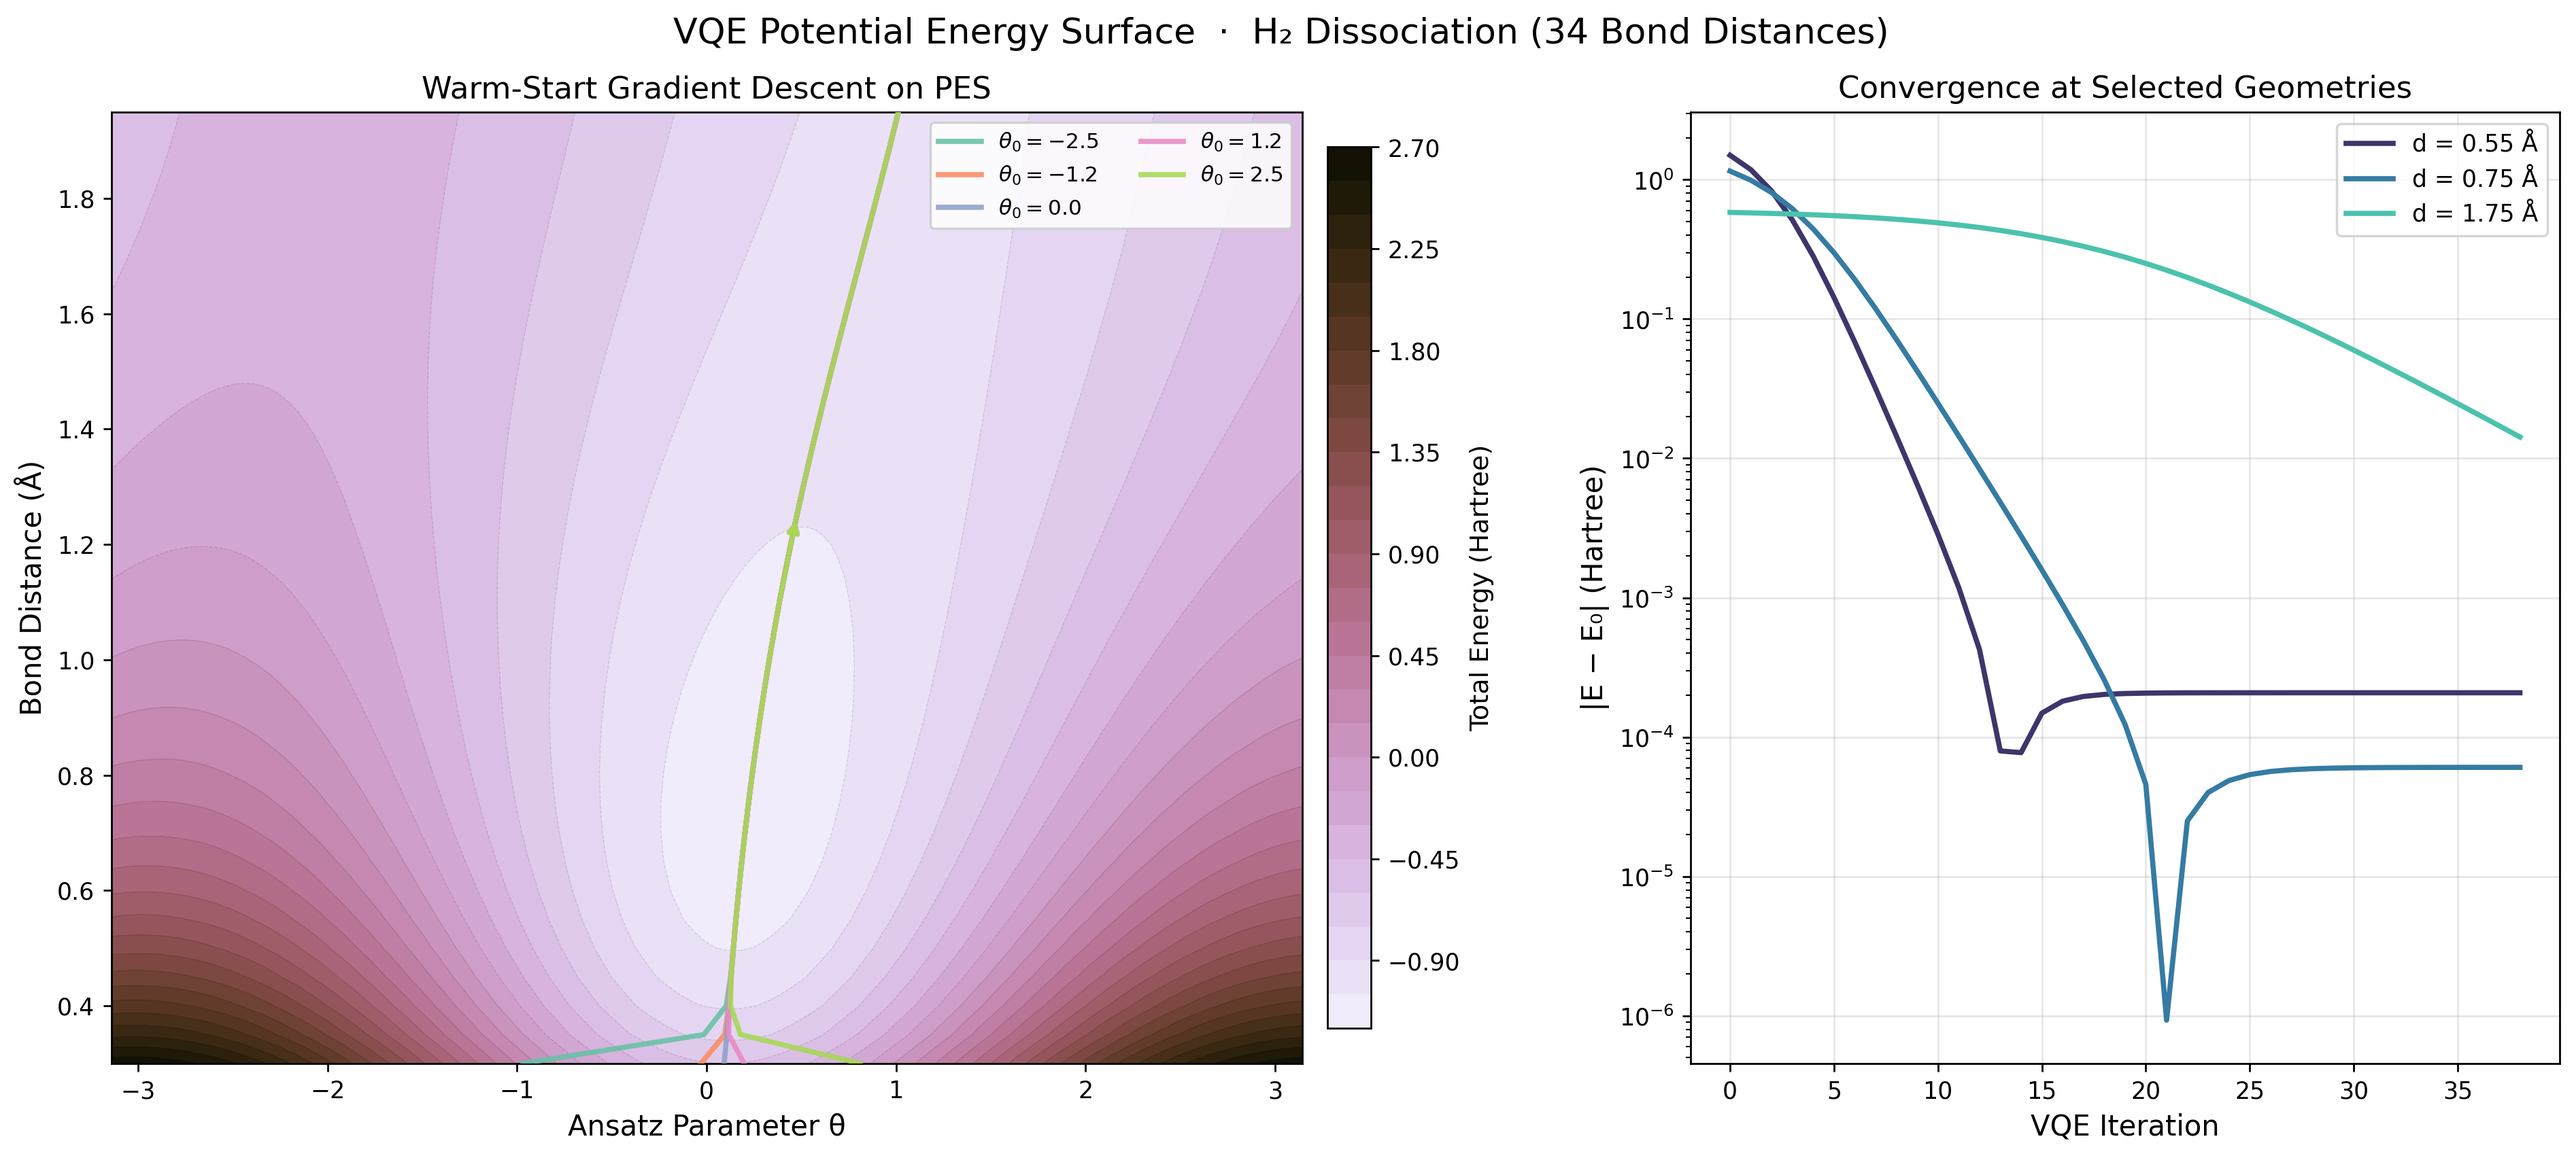
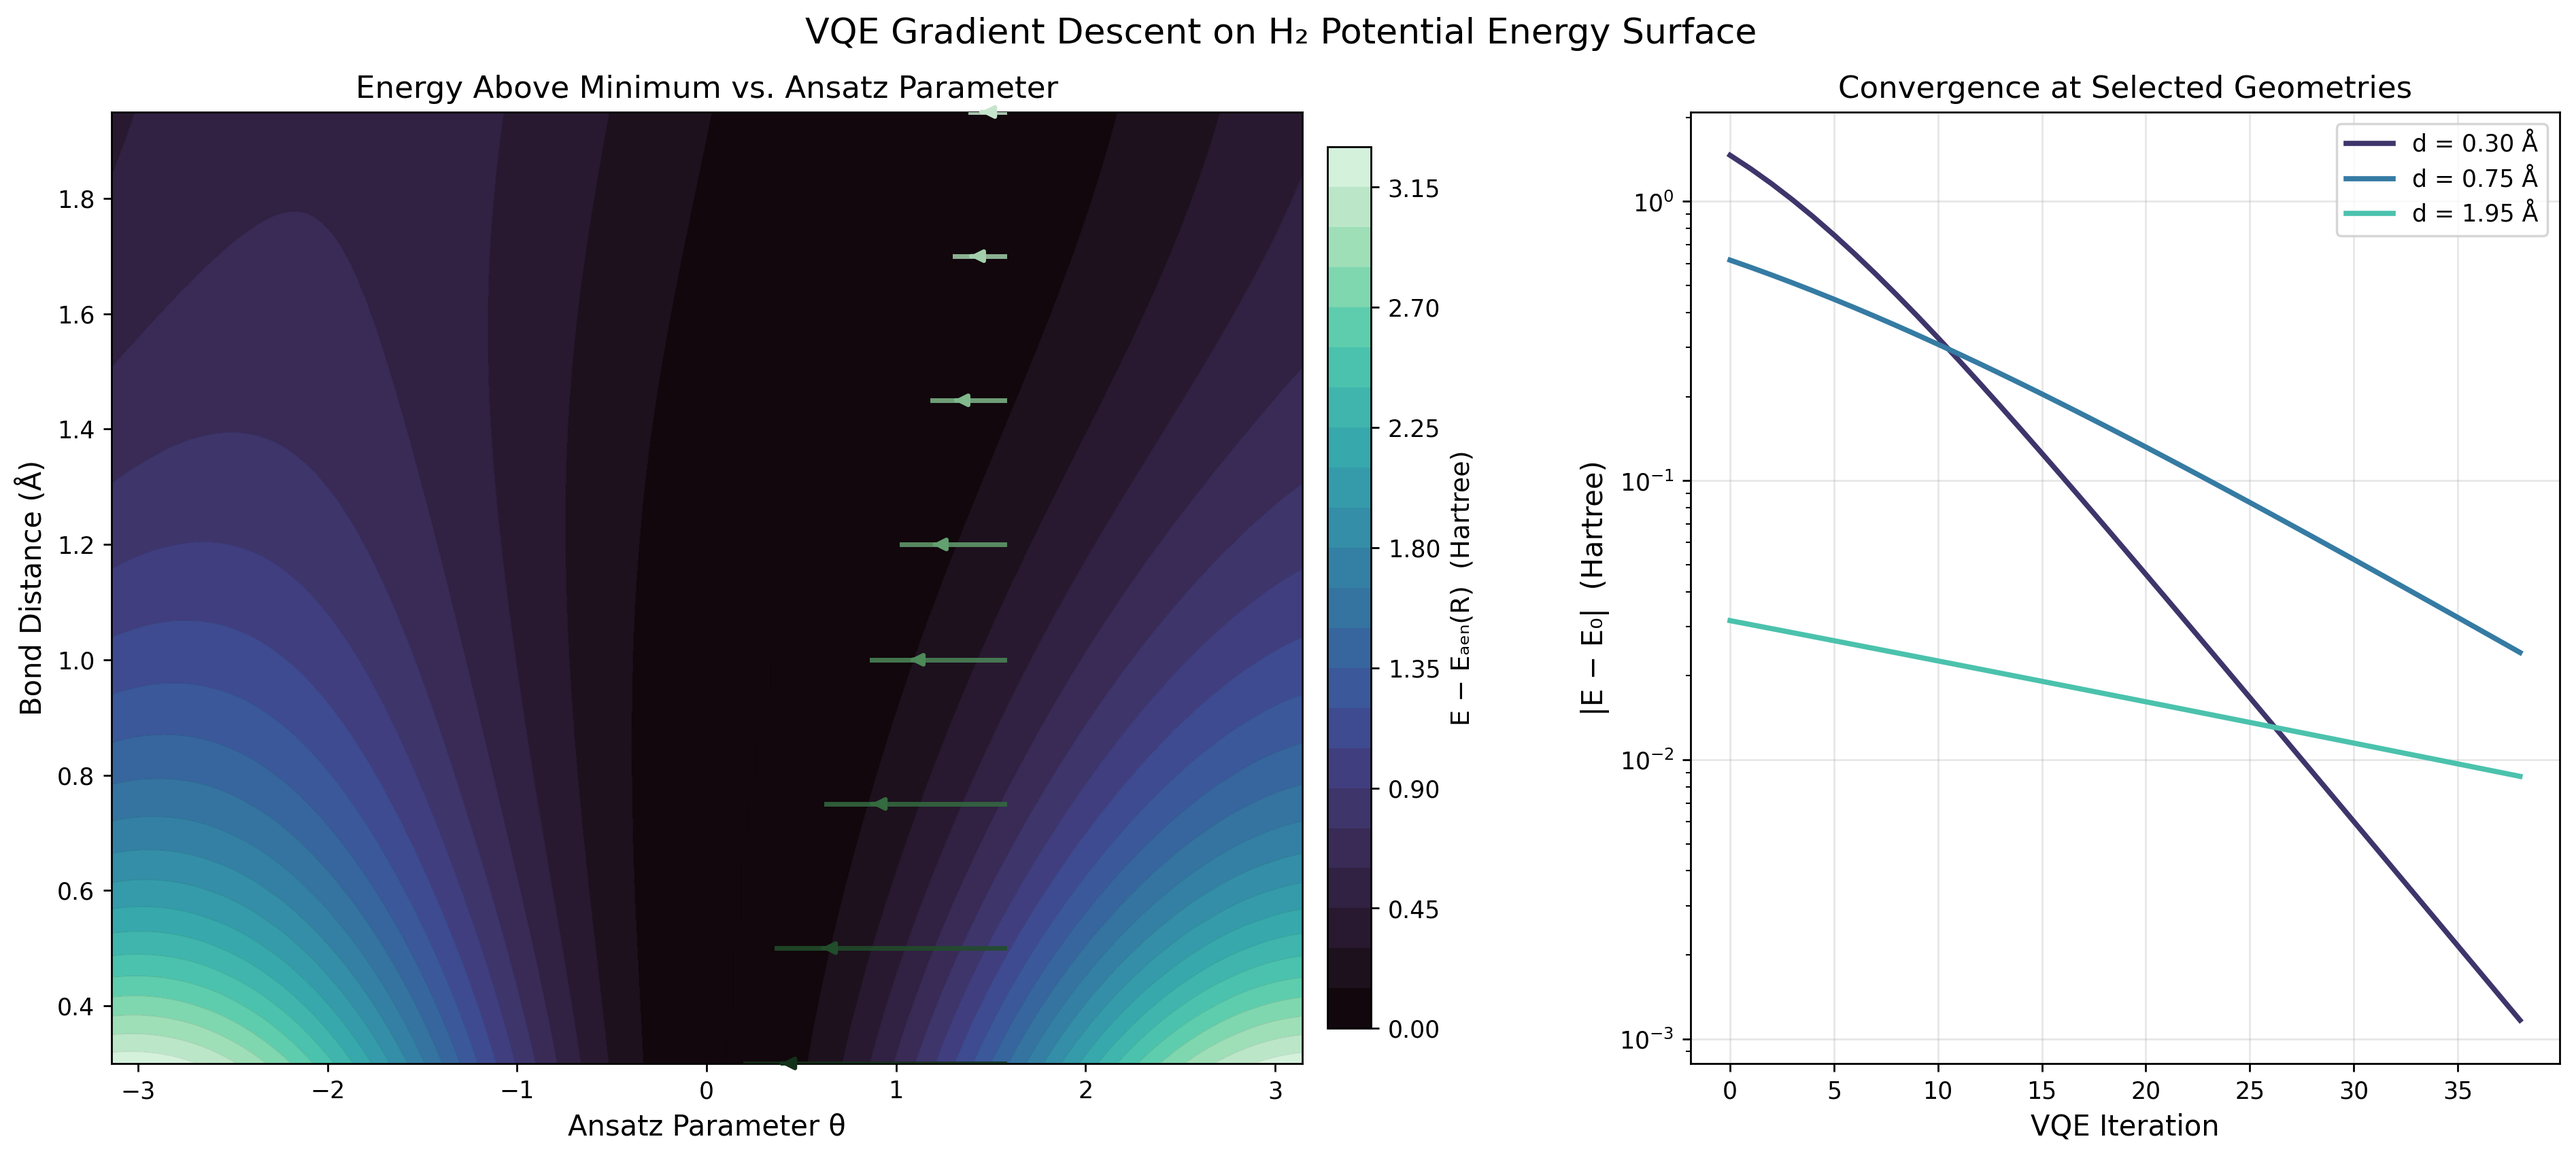
hero: relative PES, mako/cubehelix theme matching energy curves, per-R trajectories

diff --git a/visualization/heroVisualization.py b/visualization/heroVisualization.py
@@ -3,14 +3,17 @@ VQE Hero Visualization
 
 Hero plot for the Quantum Chemistry Eigensolver.
 
-Left panel: filled contour of E(theta, R) across all 34 bond distances.
-Five warm-start gradient-descent trajectories (different initial parameters)
-are traced through the (theta, R) landscape, converging toward the minimum
-energy valley as the algorithm finds the ground state.
+Left panel: filled contour of E(theta, R) - E_min(R) across all 34 bond
+distances, revealing how the well depth and landscape shape vary with geometry.
+Gradient-descent trajectories are shown at 8 sampled bond distances, starting
+from theta=pi/2. Convergence is fastest near equilibrium (deep well, large
+gradient) and slowest at dissociation (shallow well, small coupling) -- a
+physically meaningful non-trivial pattern. Color scheme matches
+vqe_energy_curves.py: cubehelix palette for bond-distance trajectory coloring,
+mako colormap for the PES background.
 
 Right panel: energy error |E - E_0| (log scale) vs VQE iteration at three
-bond distances (compressed, equilibrium, stretched), demonstrating convergence
-of the parameter-shift gradient descent at different molecular geometries.
+geometries (compressed, equilibrium, stretched). Uses mako palette.
 """
 
 import os
@@ -91,33 +94,42 @@ def createHeroVisualization(savePath):
         hMats.append(h.to_matrix())
         nucs.append(float(nuc))
 
-    # ── Energy grid for contour plot ───────────────────────────────────────────
+    # ── Energy grid ───────────────────────────────────────────────────────────
     print("Computing energy grid...")
     energyGrid = np.zeros((len(distances), n_thetas))
     for dIdx, (h_mat, nuc) in enumerate(zip(hMats, nucs)):
         energyGrid[dIdx] = _energyRow(h_mat, nuc, ansatz, thetas)
 
-    # ── Warm-start gradient-descent trajectories ───────────────────────────────
+    # Relative landscape: E(theta, R) - E_min(R)  highlights how well-depth
+    # varies with bond distance (deep at equilibrium, shallow at dissociation)
+    relGrid = energyGrid - energyGrid.min(axis=1, keepdims=True)
+
+    # ── VQE trajectories at 8 sampled bond distances ──────────────────────────
+    # Each trajectory starts at theta=pi/2 (maximum gradient, clearly away from
+    # both the minimum and the saddle). Convergence rate is proportional to the
+    # coupling |B(R)|, which peaks at equilibrium and decays toward dissociation,
+    # so paths are short near R_eq and long near R_max -- physically revealing.
     print("Computing VQE trajectories...")
-    initialThetas = np.array([-2.5, -1.2, 0.0, 1.2, 2.5])
-    lr = 0.30
-    nStepsPerDist = 4
-    nStarts = len(initialThetas)
-    trajTheta = np.zeros((nStarts, len(distances)))
+    sampleIndices = np.linspace(0, len(distances) - 1, 8, dtype=int)
+    lr = 0.06
+    nSteps = 28
+    trajData = []  # list of (theta_path, R)
 
-    for s, theta0 in enumerate(initialThetas):
-        t = float(theta0)
-        for dIdx, (h_mat, nuc) in enumerate(zip(hMats, nucs)):
-            for _ in range(nStepsPerDist):
-                g = _psrGradient(h_mat, nuc, ansatz, t)
-                t = t - lr * g
-                t = float(((t + np.pi) % (2.0 * np.pi)) - np.pi)
-            trajTheta[s, dIdx] = t
+    for idx in sampleIndices:
+        h_mat, nuc = hMats[idx], nucs[idx]
+        t = np.pi / 2.0
+        tPath = [t]
+        for _ in range(nSteps):
+            g = _psrGradient(h_mat, nuc, ansatz, t)
+            t = t - lr * g
+            t = float(((t + np.pi) % (2.0 * np.pi)) - np.pi)
+            tPath.append(t)
+        trajData.append((np.array(tPath), distances[idx]))
 
-    # ── Convergence curves at 3 bond distances ─────────────────────────────────
+    # ── Convergence curves at 3 representative geometries ─────────────────────
     print("Computing convergence curves...")
-    eqDistIdx = int(np.argmin(np.min(energyGrid, axis=1)))
-    convIndices = [5, eqDistIdx, len(distances) - 5]
+    eqDistIdx = int(np.argmin(energyGrid.min(axis=1)))
+    convIndices = [sampleIndices[0], eqDistIdx, sampleIndices[-1]]
     convEnergy = []
     convGround = []
 
@@ -125,7 +137,7 @@ def createHeroVisualization(savePath):
         h_mat, nuc = hMats[dIdx], nucs[dIdx]
         ground = float(np.min(energyGrid[dIdx]))
         convGround.append(ground)
-        t = -1.8
+        t = np.pi / 2.0
         steps = [_energyAt(h_mat, nuc, ansatz, t)]
         for _ in range(38):
             g = _psrGradient(h_mat, nuc, ansatz, t)
@@ -134,10 +146,11 @@ def createHeroVisualization(savePath):
             steps.append(_energyAt(h_mat, nuc, ansatz, t))
         convEnergy.append(np.array(steps))
 
-    # ── Color palettes matching vqe_energy_curves.py style ────────────────────
-    pesCmap = sns.cubehelix_palette(start=1.5, rot=-0.5, dark=0.05, light=0.95, reverse=False, as_cmap=True)
-    trajPalette = sns.color_palette("Set2", nStarts)
-    convPalette = sns.color_palette("mako", 3)
+    # ── Color palettes -- exact match to vqe_energy_curves.py ─────────────────
+    distCmap = sns.cubehelix_palette(start=2, rot=0, dark=0.15, light=0.85, reverse=True, as_cmap=True)
+    pesCmap = sns.color_palette("mako", as_cmap=True)
+    convPalette = sns.color_palette("mako", n_colors=3)
+    norm = plt.Normalize(distances[0], distances[-1])
 
     # ── Figure ────────────────────────────────────────────────────────────────
     fig = plt.figure(figsize=(16, 7))
@@ -145,38 +158,34 @@ def createHeroVisualization(savePath):
     axLeft = fig.add_subplot(gs[0])
     axRight = fig.add_subplot(gs[1])
 
-    fig.suptitle("VQE Potential Energy Surface  \u00b7  H\u2082 Dissociation (34 Bond Distances)", fontsize=15)
+    fig.suptitle("VQE Gradient Descent on H\u2082 Potential Energy Surface", fontsize=15)
 
-    # ── Left: filled contour PES + trajectories ───────────────────────────────
+    # ── Left: relative PES + per-distance trajectories ────────────────────────
     THETA, DIST = np.meshgrid(thetas, distances)
-    cf = axLeft.contourf(THETA, DIST, energyGrid, levels=30, cmap=pesCmap)
-    axLeft.contour(THETA, DIST, energyGrid, levels=30, colors="k", alpha=0.10, linewidths=0.4)
+    cf = axLeft.contourf(THETA, DIST, relGrid, levels=30, cmap=pesCmap)
+    axLeft.contour(THETA, DIST, relGrid, levels=30, colors="k", alpha=0.08, linewidths=0.4)
     cbar = fig.colorbar(cf, ax=axLeft, fraction=0.035, pad=0.02)
-    cbar.set_label("Total Energy (Hartree)", fontsize=11)
+    cbar.set_label("E \u2212 E\u2090\u2091\u2099(R)  (Hartree)", fontsize=11)
 
-    for s in range(nStarts):
-        axLeft.plot(
-            trajTheta[s],
-            distances,
-            color=trajPalette[s],
-            linewidth=2.2,
-            alpha=0.88,
-            label=f"$\\theta_0 = {initialThetas[s]:.1f}$",
-            zorder=3,
-        )
-        mid = len(distances) // 2
+    for tPath, R in trajData:
+        lineColor = distCmap(norm(R))
+        axLeft.plot(tPath, [R] * len(tPath), color=lineColor, linewidth=2.0, alpha=0.85, zorder=3)
+        # Arrow at 60% along the path to show direction of descent
+        arrowIdx = int(0.60 * len(tPath))
         axLeft.annotate(
             "",
-            xy=(trajTheta[s, mid + 2], distances[mid + 2]),
-            xytext=(trajTheta[s, mid - 1], distances[mid - 1]),
-            arrowprops=dict(arrowstyle="-|>", color=trajPalette[s], lw=1.6),
+            xy=(tPath[arrowIdx + 1], R),
+            xytext=(tPath[arrowIdx], R),
+            arrowprops=dict(arrowstyle="-|>", color=lineColor, lw=1.8),
             zorder=4,
         )
 
+    sm = plt.cm.ScalarMappable(cmap=distCmap, norm=norm)
+    sm.set_array([])
+
     axLeft.set_xlabel("Ansatz Parameter \u03b8", fontsize=12)
     axLeft.set_ylabel("Bond Distance (\u00c5)", fontsize=12)
-    axLeft.set_title("Warm-Start Gradient Descent on PES", fontsize=13)
-    axLeft.legend(fontsize=9, loc="upper right", framealpha=0.85, ncol=2)
+    axLeft.set_title("Energy Above Minimum vs. Ansatz Parameter", fontsize=13)
 
     # ── Right: convergence curves (log scale) ─────────────────────────────────
     distLabels = [f"d = {distances[i]:.2f} \u00c5" for i in convIndices]
@@ -186,7 +195,7 @@ def createHeroVisualization(savePath):
 
     axRight.set_yscale("log")
     axRight.set_xlabel("VQE Iteration", fontsize=12)
-    axRight.set_ylabel("|E \u2212 E\u2080| (Hartree)", fontsize=12)
+    axRight.set_ylabel("|E \u2212 E\u2080|  (Hartree)", fontsize=12)
     axRight.set_title("Convergence at Selected Geometries", fontsize=13)
     axRight.legend(fontsize=10)
     axRight.grid(True, alpha=0.3)

diff --git a/README.md b/README.md
@@ -175,7 +175,7 @@ VQE energy landscape across 8 sampled bond distances (left) and the full dissoci
   <img src="visualization/vqe_energy_curves.png" alt="VQE Energy Optimization Curves" width="800">
 </p>
 
-VQE potential energy surface across all 34 bond distances and the ansatz parameter, with five warm-start gradient-descent trajectories converging toward the ground-state valley from different initial configurations. Right panel: energy error on a log scale at three geometries (compressed, equilibrium, stretched).
+VQE potential energy surface showing E(theta, R) - E_min(R) across all 34 bond distances. Gradient-descent trajectories (parameter-shift rule) are shown at 8 sampled geometries: paths are short near equilibrium where the well is deep and converge slowly toward dissociation where coupling weakens. Right panel: energy error on a log scale at three geometries (compressed, equilibrium, stretched).
 
 <p align="center">
   <img src="visualization/vqe_hero.png" alt="VQE Potential Energy Surface with optimization trajectories" width="900">
